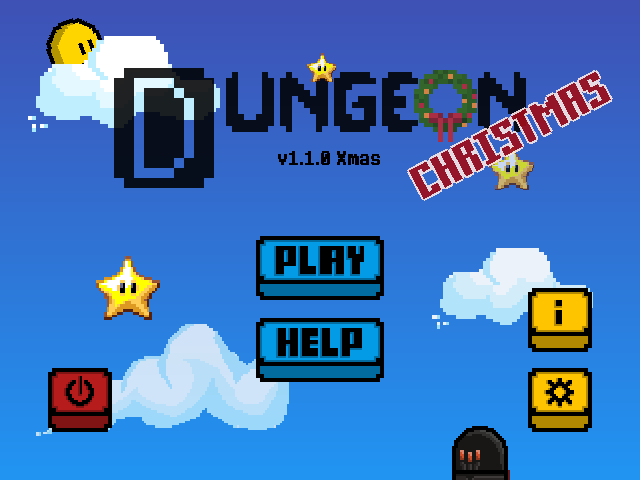
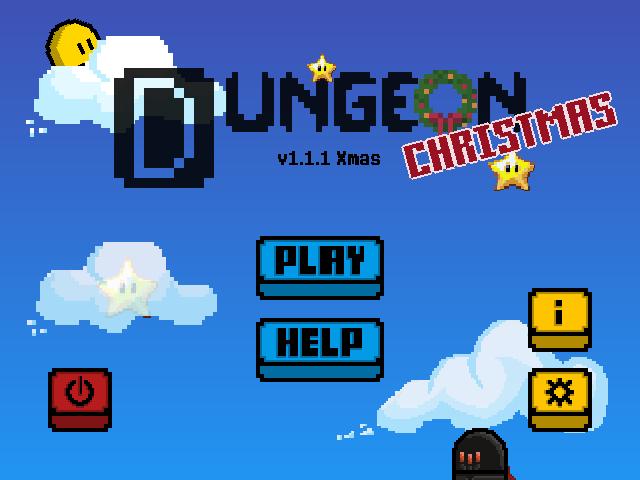
Updated dungeon

diff --git a/tonys-studio/project/dungeon.html b/tonys-studio/project/dungeon.html
@@ -62,7 +62,7 @@
         </div>
         <div class="download">
             <div class="item">
-                <a href="release/Dungeon 1.0.3.zip">Dungeon v1.1.0 Xmas</a>
+                <a href="release/Dungeon 1.1.1.zip">Dungeon v1.1.1 Xmas</a>
                 <span>2022.12.24</span>
             </div>
             <div class="item">
@@ -92,8 +92,7 @@
             </div>
             <script src="js/swiper-bundle.min.js"></script>
             <div class="text">
-                <p>Special Edition for Christmas! Save system is now available! Melee weapons can now bounce bullets!
-                </p>
+                <p>v1.1.1 Xmas - The final version. All features available!</p>
             </div>
             <div class="slide no-select">
                 <div class="swiper swiper-2">
@@ -101,7 +100,7 @@
                         <div class="swiper-slide"><img src="res/dungeon/3-01.png" alt="screenshot"></div>
                         <div class="swiper-slide"><img src="res/dungeon/3-02.png" alt="screenshot"></div>
                         <div class="swiper-slide"><img src="res/dungeon/3-03.gif" alt="screenshot"></div>
-                        <div class="swiper-slide"><img src="res/dungeon/3-04.png" alt="screenshot"></div>
+                        <div class="swiper-slide"><img src="res/dungeon/3-extreme.png" alt="screenshot"></div>
                     </div>
                     <div class="swiper-pagination"></div>
                     <div class="swiper-button-prev"></div>
@@ -124,7 +123,7 @@
                 </script>
             </div>
             <div class="text">
-                <p>Special Edition for Christmas! More weapons! More enemies! More surprise!</p>
+                <p>v1.0.3 Xmas - Special Edition for Christmas! More weapons! More enemies! More surprise!</p>
             </div>
             <div class="slide no-select">
                 <div class="swiper swiper-2">
@@ -155,7 +154,7 @@
                 </script>
             </div>
             <div class="text">
-                <p>Primary feature for version 1.0.3.</p>
+                <p>v1.0.3 - Primary features.</p>
             </div>
             <div class="slide no-select">
                 <div class="swiper swiper-1">
@@ -204,10 +203,45 @@
 
         <!-- Version -->
         <div>
-            <!-- v1.1.0 Xmas -->
             <div class="chapter">
                 <h2>- Version -</h2>
             </div>
+            <!-- v1.1.1 Xmas -->
+            <div class="section">
+                <h3>v1.1.1 Xmas</h3>
+            </div>
+            <div class="part">
+                <h4>Overview:</h4>
+            </div>
+            <div class="text">
+                <p>This is finally, a COMPLETE version, which realized all my initial thoughts, including the essential
+                    features of Infinite and Non-Infinite mode, Shopping system, Load & Save system and Boss challenge.
+                    Thanks to Dungine, all these are done much, much more easier. Sadly, this "might" be the final
+                    version. :(
+                </p>
+            </div>
+            <div class="text">
+                <p>Infinite mode is now online! You can choose to play in infinite mode before you enter the game. Enjoy
+                    the massive waves of enemies!</p>
+            </div>
+            <div class="text">
+                <p>Game details improved.</p>
+            </div>
+            <div class="text">
+                <p>Game log is now available. If game crashes, you can look at "log.txt" for more information. Or send
+                    it to us. We're really sorry for this. :(</p>
+            </div>
+            <div class="text">
+                <p>As you can see in the screenshots, game won't get any latency with tons of objects rendered on the
+                    screen. (This is just for test, you won't really face so many buddies.)</p>
+            </div>
+            <div class="part">
+                <h4>Bugs:</h4>
+            </div>
+            <div class="text">
+                <p>Game may become unstable if you really survives so many levels in Infinite mode.</p>
+            </div>
+            <!-- v1.1.0 Xmas -->
             <div class="section">
                 <h3>v1.1.0 Xmas</h3>
             </div>
@@ -215,7 +249,7 @@
                 <h4>Overview:</h4>
             </div>
             <div class="text">
-                <p>This is a nearly complete verson, which realized almost all my initial thoughts. In this version,
+                <p>This is a nearly complete version, which realized almost all my initial thoughts. In this version,
                     you'll see many old faces. They all come for Christmas. </p>
             </div>
             <div class="text">
@@ -238,9 +272,9 @@
             <div class="text">
                 <p>Melee weapon may not bounce bullets nice and nea-to.</p>
             </div>
-            <!-- v1.0.4 Xmas -->
+            <!-- v1.0.3 Xmas -->
             <div class="section">
-                <h3>v1.0.4 Xmas</h3>
+                <h3>v1.0.3 Xmas</h3>
             </div>
             <div class="part">
                 <h4>Overview:</h4>
